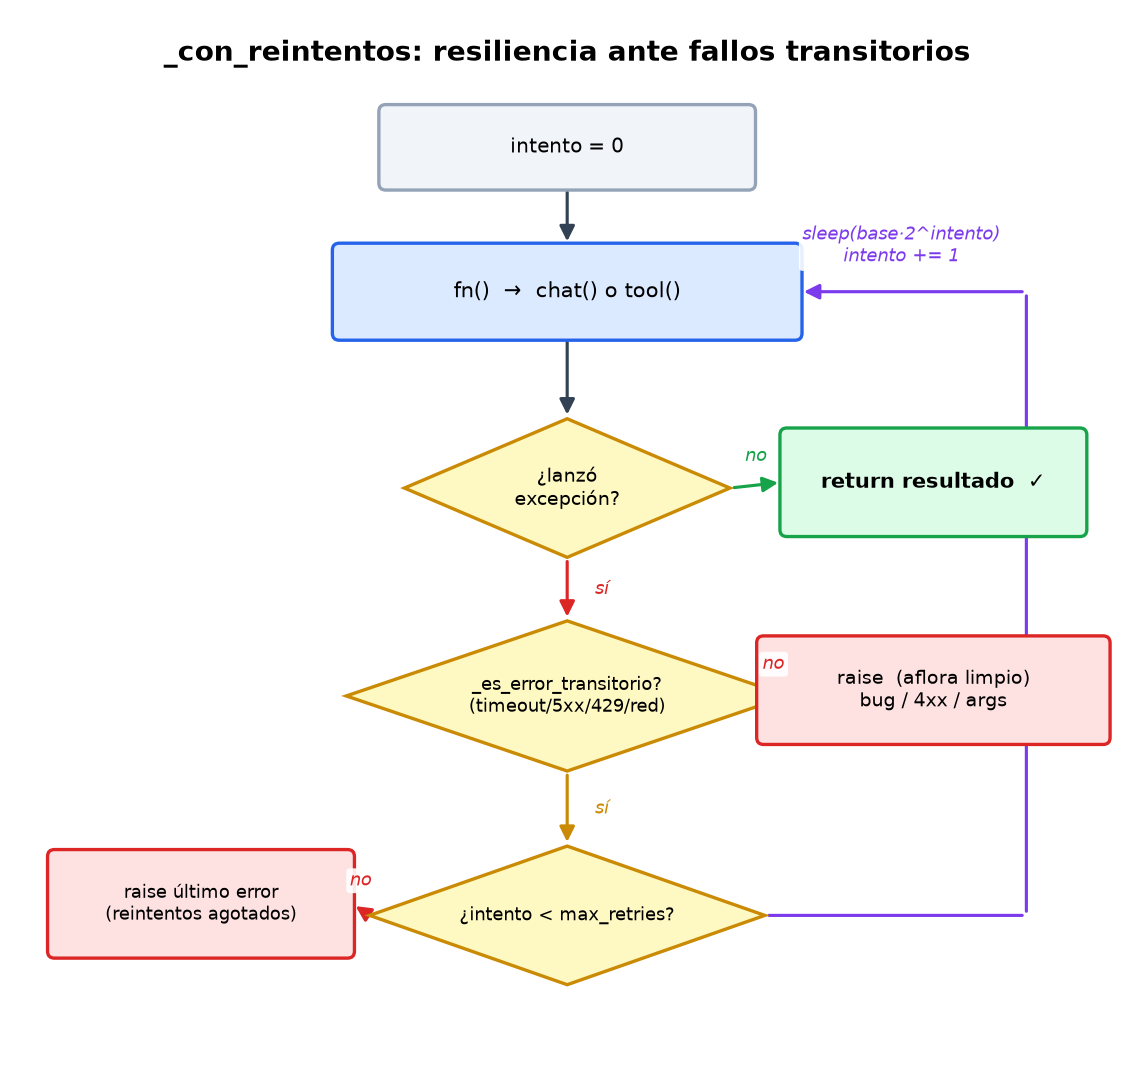
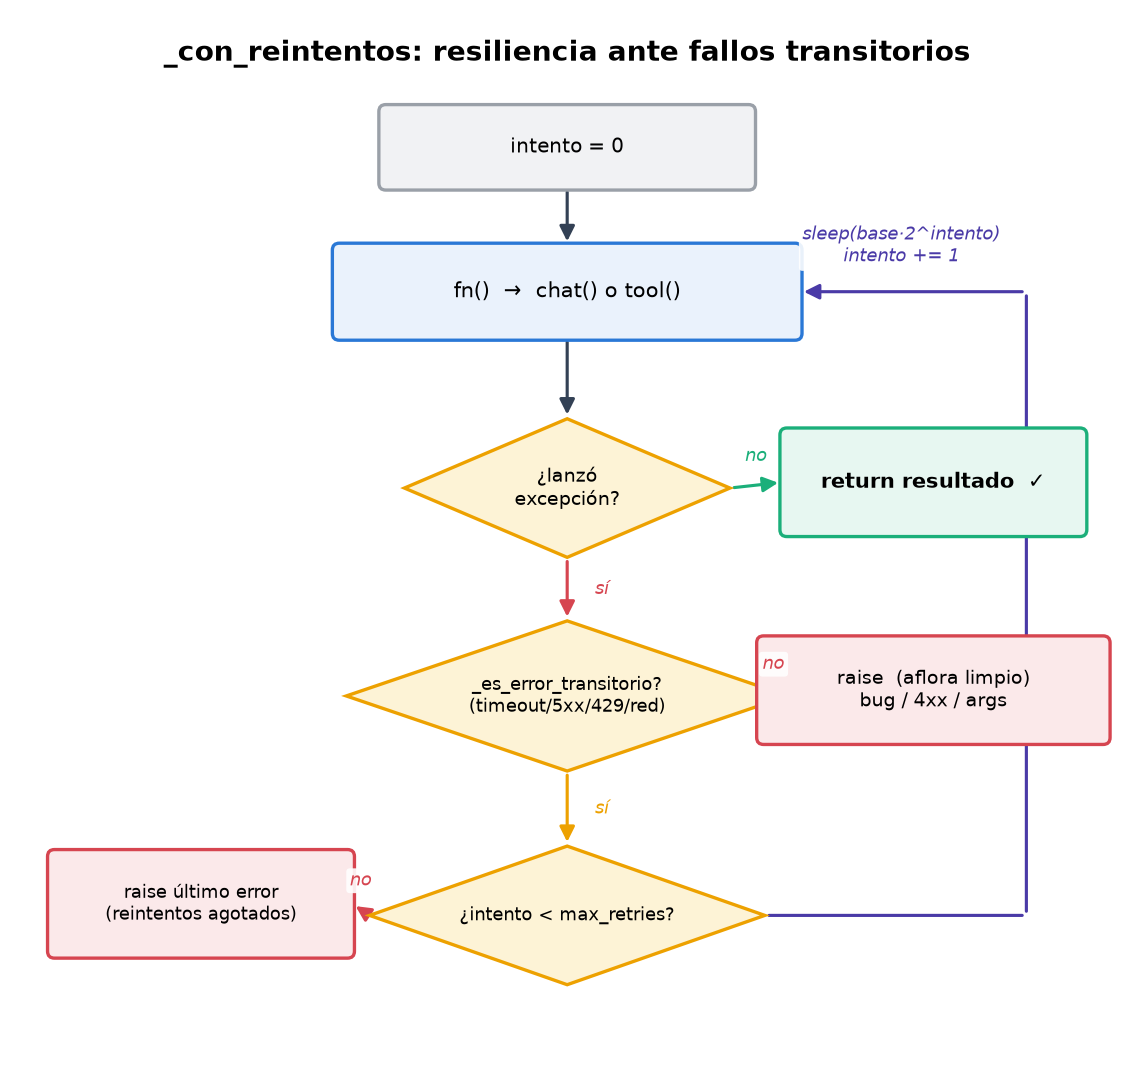
docs: unificar la paleta de TODOS los diagramas (M1/M2/M3) en un módulo único
Nuevo scripts/estilo_diagramas.py = fuente única de la paleta validada del skill
de dataviz (misma que los gráficos de datos de M3). Los diagramas de M1/M2
usaban una paleta vieja (estilo Tailwind: #2563eb/#16a34a/#dc2626...); ahora
importan del módulo y quedan con los mismos hex (#2a78d6/#1baf7a/#eda100/...)
y tintes. Rojo/verde se mantienen como status colors (error/éxito), reservados
y con etiqueta de texto. Sin cambios de geometría: solo remapeo de color.
Los tres informes se leen ahora como una serie.

diff --git a/scripts/generar_diagrama_arquitectura.py b/scripts/generar_diagrama_arquitectura.py
@@ -22,13 +22,16 @@ import matplotlib.patches as mpatches
 from matplotlib.patches import FancyArrowPatch, FancyBboxPatch
 import matplotlib.pyplot as plt
 
-# Paleta de colores por tipo de componente.
-COLOR_TUYO = "#dbeafe"      # azul claro: código del grupo (student_framework)
-COLOR_FIJO = "#fee2e2"      # rojo claro: código FIJO de la cátedra (no se toca)
-COLOR_TOOLS = "#dcfce7"     # verde claro: herramientas
-COLOR_BORDE_TUYO = "#2563eb"
-COLOR_BORDE_FIJO = "#dc2626"
-COLOR_BORDE_TOOLS = "#16a34a"
+# Paleta unificada (fuente única en estilo_diagramas.py): mismos hex validados
+# que M2/M3, mapeados a las categorías semánticas de este diagrama.
+from estilo_diagramas import AZUL, VERDE, ROJO, AMBAR, GRIS, FILL  # noqa: E402
+
+COLOR_TUYO = FILL[AZUL]      # azul: código del grupo (student_framework)
+COLOR_FIJO = FILL[ROJO]      # rojo (status): código FIJO de la cátedra (no se toca)
+COLOR_TOOLS = FILL[VERDE]    # verde: herramientas
+COLOR_BORDE_TUYO = AZUL
+COLOR_BORDE_FIJO = ROJO
+COLOR_BORDE_TOOLS = VERDE
 
 
 def caja(ax, x, y, w, h, texto, face, edge, fontsize=10, weight="normal"):
@@ -111,7 +114,7 @@ def main() -> None:
     caja(ax, 3.6, 3.5, 4.8, 3.0, "", COLOR_TUYO, COLOR_BORDE_TUYO)
     ax.text(6.0, 6.15, "MyAgent", ha="center", fontsize=12, weight="bold")
     ax.text(6.0, 5.75, "[student_framework/agent.py]", ha="center", fontsize=8.5,
-            style="italic", color="#475569")
+            style="italic", color=GRIS)
     ax.text(
         6.0, 4.55,
         "_tools   : { nombre -> callable }\n"
@@ -126,7 +129,7 @@ def main() -> None:
     caja(ax, 0.3, 3.7, 2.7, 2.6, "", COLOR_FIJO, COLOR_BORDE_FIJO)
     ax.text(1.65, 5.95, "LLMClient", ha="center", fontsize=11, weight="bold")
     ax.text(1.65, 5.6, "(FIJO — cátedra)", ha="center", fontsize=8, style="italic",
-            color="#991b1b")
+            color=ROJO)
     ax.text(
         1.65, 4.6,
         "BedrockProvider\nOllamaProvider\nMockLLMClient\n\n"
@@ -138,7 +141,7 @@ def main() -> None:
     caja(ax, 9.0, 3.7, 2.7, 2.6, "", COLOR_TOOLS, COLOR_BORDE_TOOLS)
     ax.text(10.35, 5.95, "Herramientas", ha="center", fontsize=11, weight="bold")
     ax.text(10.35, 5.6, "[student_framework/tools/]", ha="center", fontsize=7.5,
-            style="italic", color="#166534")
+            style="italic", color=VERDE)
     ax.text(
         10.35, 4.55,
         "calculadora\nleer_archivo\ncontar_palabras\n\n"
@@ -149,12 +152,12 @@ def main() -> None:
     # --- LLMResponse / proveedor reales (abajo izquierda) ---
     caja(ax, 0.3, 1.2, 2.7, 1.5,
          "Proveedor LLM\nAWS Bedrock / Ollama\n(o Mock en tests)",
-         "#f1f5f9", "#94a3b8", fontsize=9)
+         FILL[GRIS], GRIS, fontsize=9)
 
     # --- AgentResult (abajo centro) ---
     caja(ax, 4.3, 1.4, 3.4, 1.1,
          "AgentResult\n(answer, steps[], tokens)",
-         "#fef9c3", "#ca8a04", fontsize=10, weight="bold")
+         FILL[AMBAR], AMBAR, fontsize=10, weight="bold")
 
     # === Flechas ===
     # build_agent -> MyAgent (construye y registra tools)

diff --git a/scripts/estilo_diagramas.py b/scripts/estilo_diagramas.py
@@ -1,0 +1,45 @@
+"""Estilo compartido de los diagramas de los informes (M1, M2, M3).
+
+Fuente ÚNICA de la paleta para que los tres informes se lean como una serie.
+Los hex son los de la **paleta categórica validada** del skill de dataviz (la
+misma que usan los gráficos de datos de M3): así los diagramas de arquitectura
+de M1/M2 dejan de usar su paleta vieja (estilo Tailwind) y comparten el lenguaje
+visual con M3.
+
+Convención:
+  - Colores **saturados** (bordes / relleno fuerte): AZUL, VERDE, NARANJA,
+    AMBAR, ROSA, VIOLETA, GRIS, ROJO.
+  - `FILL[color]`: el tinte claro correspondiente para el fondo de la caja.
+  - Los flowcharts de M1/M2 arman sus pares (fondo claro + borde) como
+    `FILL[C], C`; los diagramas de capas de M3 usan el saturado directo con
+    `FILL` como fondo.
+
+Sobre rojo/verde: son **status colors** (error/éxito), reservados y legítimos en
+un flowchart —viajan siempre con una etiqueta de texto ("FALLO", "OK", "no"),
+así que la identidad nunca depende solo del color—.
+"""
+
+from __future__ import annotations
+
+# Paleta categórica validada (orden = mecanismo de seguridad CVD; no reordenar).
+AZUL = "#2a78d6"      # proceso / código propio / agente autónomo
+NARANJA = "#eb6834"   # workflow-con-LLM (summarizer, judge) / acento cálido
+VERDE = "#1baf7a"     # éxito / herramientas / workflow determinístico
+AMBAR = "#eda100"     # decisión (rombos) / resultado
+ROSA = "#e87ba4"      # categoría extra
+VIOLETA = "#4a3aa7"   # loop-back / reintento
+GRIS = "#9aa0a8"      # neutro / entorno / proveedor
+ROJO = "#d64550"      # error (status, reservado) / código FIJO de cátedra
+TINTA = "#1f2328"     # texto
+
+# Tintes claros para el fondo de cada caja.
+FILL = {
+    AZUL: "#eaf2fc",
+    NARANJA: "#fdece4",
+    VERDE: "#e7f7f1",
+    AMBAR: "#fdf3d6",
+    ROSA: "#fbeaf1",
+    VIOLETA: "#e9e6f5",
+    GRIS: "#f1f2f4",
+    ROJO: "#fbe9ea",
+}

diff --git a/scripts/generar_diagrama_bucle.py b/scripts/generar_diagrama_bucle.py
@@ -17,16 +17,19 @@ matplotlib.use("Agg")
 from matplotlib.patches import FancyArrowPatch, FancyBboxPatch, Polygon
 import matplotlib.pyplot as plt
 
-AZUL = "#dbeafe"
-AZUL_B = "#2563eb"
-AMARILLO = "#fef9c3"
-AMARILLO_B = "#ca8a04"
-VERDE = "#dcfce7"
-VERDE_B = "#16a34a"
-ROJO = "#fee2e2"
-ROJO_B = "#dc2626"
-GRIS = "#f1f5f9"
-GRIS_B = "#94a3b8"
+# Paleta unificada (fuente única en estilo_diagramas.py). Armamos los pares
+# flowchart (fondo claro + borde) a partir de los saturados validados.
+from estilo_diagramas import (  # noqa: E402
+    AZUL as _AZUL, VERDE as _VERDE, AMBAR as _AMBAR, ROJO as _ROJO,
+    GRIS as _GRIS, VIOLETA as _VIOLETA, FILL,
+)
+
+AZUL, AZUL_B = FILL[_AZUL], _AZUL
+AMARILLO, AMARILLO_B = FILL[_AMBAR], _AMBAR
+VERDE, VERDE_B = FILL[_VERDE], _VERDE
+ROJO, ROJO_B = FILL[_ROJO], _ROJO
+GRIS, GRIS_B = FILL[_GRIS], _GRIS
+VIOLETA_B = _VIOLETA
 
 
 def caja(ax, x, y, w, h, texto, face, edge, fontsize=9.5, weight="normal"):
@@ -134,12 +137,12 @@ def main() -> None:
     # error -> volcado
     flecha(ax, (cx + 2.3, 2.2), (cx + 1.3, 1.6), rad=0.2)
     # volcado -> vuelve al chat (loop). Curva por la izquierda.
-    flecha(ax, (cx - 2.3, 1.15), (0.55, 1.15), color="#7c3aed")
+    flecha(ax, (cx - 2.3, 1.15), (0.55, 1.15), color=VIOLETA_B)
     ax.add_patch(FancyArrowPatch((0.55, 1.15), (0.55, 9.75),
                  connectionstyle="arc3,rad=0.0", arrowstyle="-",
-                 linewidth=1.5, color="#7c3aed", zorder=1))
+                 linewidth=1.5, color=VIOLETA_B, zorder=1))
     flecha(ax, (0.55, 9.75), (cx - 2.2, 9.75), "siguiente iteración\n(vuelve al LLM)",
-           color="#7c3aed", off=(0.4, 0.3))
+           color=VIOLETA_B, off=(0.4, 0.3))
 
     fig.text(0.5, 0.02,
              "Corte del bucle: el LLM responde sin tool_calls (respuesta final) "

diff --git a/scripts/generar_diagramas_arquitectura_m3.py b/scripts/generar_diagramas_arquitectura_m3.py
@@ -27,14 +27,16 @@ from matplotlib.patches import FancyArrowPatch, FancyBboxPatch
 _REPO = Path(__file__).resolve().parent.parent
 _DOCS = _REPO / "docs"
 
-# Código de color = la taxonomía que queremos enseñar.
-AZUL = "#2a78d6"   # AGENTE autónomo: el LLM elige la próxima acción.
-VERDE = "#1baf7a"  # WORKFLOW determinístico: código, 0 tokens, pasos fijos.
-AMBAR = "#eb6834"  # WORKFLOW con LLM: llamada LLM que corre SIEMPRE igual (no autónoma).
-GRIS = "#9aa0a8"   # ENTORNO: el mundo determinístico sobre el que se actúa.
-TINTA = "#1f2328"
-
-_FILL = {AZUL: "#eaf2fc", VERDE: "#e7f7f1", AMBAR: "#fdece4", GRIS: "#f1f2f4"}
+# Código de color = la taxonomía que queremos enseñar (paleta unificada, fuente
+# única en estilo_diagramas.py; NARANJA es el "ámbar" de esta taxonomía).
+from estilo_diagramas import (  # noqa: E402
+    AZUL,      # AGENTE autónomo: el LLM elige la próxima acción.
+    VERDE,     # WORKFLOW determinístico: código, 0 tokens, pasos fijos.
+    NARANJA as AMBAR,  # WORKFLOW con LLM: llamada que corre SIEMPRE igual.
+    GRIS,      # ENTORNO: el mundo determinístico sobre el que se actúa.
+    TINTA,
+    FILL as _FILL,
+)
 
 
 def _caja(ax, x, y, w, h, texto, color, *, bold=False, fs=8.5):

diff --git a/scripts/generar_diagramas_m2.py b/scripts/generar_diagramas_m2.py
@@ -23,18 +23,19 @@ matplotlib.use("Agg")
 from matplotlib.patches import FancyArrowPatch, FancyBboxPatch, Polygon
 import matplotlib.pyplot as plt
 
-AZUL = "#dbeafe"
-AZUL_B = "#2563eb"
-AMARILLO = "#fef9c3"
-AMARILLO_B = "#ca8a04"
-VERDE = "#dcfce7"
-VERDE_B = "#16a34a"
-ROJO = "#fee2e2"
-ROJO_B = "#dc2626"
-GRIS = "#f1f5f9"
-GRIS_B = "#94a3b8"
-VIOLETA = "#ede9fe"
-VIOLETA_B = "#7c3aed"
+# Paleta unificada (fuente única en estilo_diagramas.py). Pares flowchart
+# (fondo claro + borde) a partir de los saturados validados.
+from estilo_diagramas import (  # noqa: E402
+    AZUL as _AZUL, VERDE as _VERDE, AMBAR as _AMBAR, ROJO as _ROJO,
+    GRIS as _GRIS, VIOLETA as _VIOLETA, FILL,
+)
+
+AZUL, AZUL_B = FILL[_AZUL], _AZUL
+AMARILLO, AMARILLO_B = FILL[_AMBAR], _AMBAR
+VERDE, VERDE_B = FILL[_VERDE], _VERDE
+ROJO, ROJO_B = FILL[_ROJO], _ROJO
+GRIS, GRIS_B = FILL[_GRIS], _GRIS
+VIOLETA, VIOLETA_B = FILL[_VIOLETA], _VIOLETA
 
 DOCS = Path(__file__).resolve().parent.parent / "docs"
 

diff --git a/scripts/grafico_grafo_estados_m3.py b/scripts/grafico_grafo_estados_m3.py
@@ -44,10 +44,9 @@ _spec = importlib.util.spec_from_file_location("opt", _REPO / "eval" / "optimal.
 _opt = importlib.util.module_from_spec(_spec)
 _spec.loader.exec_module(_opt)
 
-# Colores: azul validado (react) para el óptimo; gris apagado para lo descartado.
-_AZUL = "#2a78d6"
-_GRIS = "#9aa0a8"
-_TINTA = "#1f2328"
+# Colores (paleta unificada, fuente única en estilo_diagramas.py): azul para el
+# óptimo; gris apagado para lo descartado.
+from estilo_diagramas import AZUL as _AZUL, GRIS as _GRIS, TINTA as _TINTA  # noqa: E402
 
 _ESCENARIO = _REPO / "scenarios" / "01-study-with-key.json"
 _PROFUNDIDAD = 3  # = óptimo del escenario (cross-validado con el enunciado)
